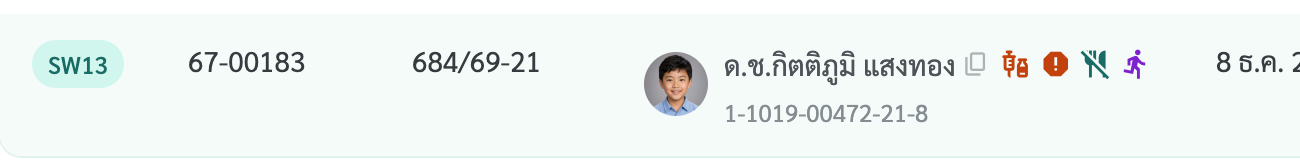
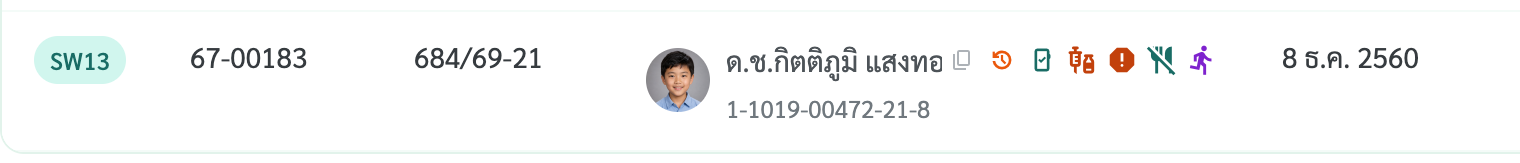
ไอคอนหลังชื่อ: ถ่ายภาพหน้าจอ 3 ภาพใหม่จากระบบ (คิวทันตกรรม · คิวเอกซเรย์ · แถว SW13 สังคมสงเคราะห์) เป็นไอคอนแบบเส้น 12px · แก้คำอธิบายภาพและบรรทัดประวัติ (ผู้ใช้ 22 พ.ย. 69 3ก)

diff --git a/worklist-name-icons.html b/worklist-name-icons.html
@@ -472,9 +472,9 @@
 </tr></tbody>
     </table>
     <span class="figlabel">ภาพจากระบบจริง — คิวทันตกรรม /clinic/dental (🔒 ข้อมูลลับ · หญิงตั้งครรภ์)</span>
-    <img class="shot" src="name-icons-shots/dental-rows.png" alt="คิวทันตกรรม แถว D-005 และ D-008 มีไอคอนแม่กุญแจสีม่วง แถว D-002 มีไอคอนหญิงตั้งครรภ์สีชมพู" loading="lazy" />
+    <img class="shot" src="name-icons-shots/dental-rows.png?v=20251122" alt="คิวทันตกรรม แถว D-005 และ D-008 มีไอคอนแม่กุญแจสีม่วงแบบเส้น แถว DR-001 มีไอคอนหญิงตั้งครรภ์สีชมพู" loading="lazy" />
     <span class="figlabel">ภาพจากระบบจริง — คิวเอกซเรย์ /xray/queue (แพ้สารทึบรังสี · ส่งตรวจภายนอก + คำอธิบายสัญลักษณ์ใต้ตาราง)</span>
-    <img class="shot" src="name-icons-shots/xray-queue.png" alt="คิวเอกซเรย์ แถวภูริ ใจกล้า มีธงแดงแพ้สารทึบรังสีและไอคอนส่งตรวจภายนอกหลังชื่อ และแถบคำอธิบายสัญลักษณ์ 6 ตัวใต้ตาราง" loading="lazy" />
+    <img class="shot" src="name-icons-shots/xray-queue.png?v=20251122" alt="คิวเอกซเรย์ แถวภูริ ใจกล้า มีธงแดงแพ้สารทึบรังสีและไอคอนส่งตรวจภายนอกหลังชื่อ และแถบคำอธิบายสัญลักษณ์ 6 ตัวใต้ตาราง" loading="lazy" />
   </section>
 
   <section class="card">
@@ -488,7 +488,7 @@
     <span class="figlabel">ตัวอย่างแถว (ชี้หรือแตะไอคอนเพื่อดู tooltip)</span>
     <div class="example"><span class="av"><span class="ms" style="font-size:28px;color:var(--icon-brandPrimary-default, #007549);font-variation-settings:'FILL' 1">child_care</span></span><div><div class="namerow"><span class="nm">ด.ช.กิตติภูมิ แสงทอง</span><span class="tip" tabindex="0"><span class="ic"><span class="ms" style="color:var(--icon-neutral-tertiary, #ADB2B7);font-size:12px;font-variation-settings:'FILL' 0,'wght' 600,'GRAD' 0,'opsz' 24">content_copy</span></span><span class="tt" role="tooltip"><span class="tt-t">คัดลอกชื่อ</span><span class="tt-s">กดแล้วเป็น ✓ &quot;คัดลอกแล้ว&quot; 1.5 วินาที</span></span></span><span class="tip" tabindex="0"><span class="ic"><span class="ms" style="color:var(--text-colorfulbadge-orange);font-size:16px;font-variation-settings:'FILL' 1,'wght' 500,'GRAD' 0,'opsz' 24">vaccines</span></span><span class="tt" role="tooltip"><span class="tt-t">ไม่ได้รับวัคซีนตามช่วงวัย</span><span class="tt-s">เด็กเข้าข่ายเด็กเสี่ยง · ควรคัดกรองและเฝ้าระวัง</span><span class="tt-group"><span class="tt-gh">การส่งต่อ</span><span class="tt-rows"><span class="tt-l">ส่งมาจาก</span><span class="tt-v">งานอนามัยโรงเรียน</span><span class="tt-l">ผู้ส่ง</span><span class="tt-v">พว.สุนันทา ใส่ใจ</span></span></span></span></span><span class="tip" tabindex="0"><span class="ic"><span class="ms" style="color:var(--text-colorfulbadge-orange);font-size:16px;font-variation-settings:'FILL' 1,'wght' 500,'GRAD' 0,'opsz' 24">report</span></span><span class="tt" role="tooltip"><span class="tt-t">สงสัยว่าถูกกระทำความรุนแรงทั้งร่างกายและจิตใจ</span><span class="tt-s">เด็กเข้าข่ายเด็กเสี่ยง · ควรคัดกรองและเฝ้าระวัง</span><span class="tt-group"><span class="tt-gh">การส่งต่อ</span><span class="tt-rows"><span class="tt-l">ส่งมาจาก</span><span class="tt-v">งานอนามัยโรงเรียน</span><span class="tt-l">ผู้ส่ง</span><span class="tt-v">พว.สุนันทา ใส่ใจ</span></span></span></span></span><span class="tip" tabindex="0"><span class="ic"><span class="ms" style="color:var(--text-colorfulbadge-teal);font-size:16px;font-variation-settings:'FILL' 1,'wght' 500,'GRAD' 0,'opsz' 24">no_meals</span></span><span class="tt" role="tooltip"><span class="tt-t">ขาดสารอาหาร</span><span class="tt-s">เหตุผลการส่งต่อ · ร่างกาย</span><span class="tt-group"><span class="tt-gh">การส่งต่อ</span><span class="tt-rows"><span class="tt-l">ส่งมาจาก</span><span class="tt-v">งานอนามัยโรงเรียน</span><span class="tt-l">ผู้ส่ง</span><span class="tt-v">พว.สุนันทา ใส่ใจ</span></span></span></span></span><span class="tip" tabindex="0"><span class="ic"><span class="ms" style="color:var(--text-colorfulbadge-purple);font-size:16px;font-variation-settings:'FILL' 1,'wght' 500,'GRAD' 0,'opsz' 24">directions_run</span></span><span class="tt" role="tooltip"><span class="tt-t">ซนมาก / อยู่ไม่สุข</span><span class="tt-s">เหตุผลการส่งต่อ · จิตใจ / อารมณ์</span><span class="tt-group"><span class="tt-gh">การส่งต่อ</span><span class="tt-rows"><span class="tt-l">ส่งมาจาก</span><span class="tt-v">งานอนามัยโรงเรียน</span><span class="tt-l">ผู้ส่ง</span><span class="tt-v">พว.สุนันทา ใส่ใจ</span></span></span></span></span></div><div class="hn">SW13 · HN 67-00183 · ข้อมูลตัวอย่าง (ชี้หรือแตะไอคอน)</div></div></div>
     <span class="figlabel">ภาพจากระบบจริง — /clinic/social-work · SW13</span>
-    <img class="shot" src="name-icons-shots/social-work-row.png" alt="แถว SW13 ด.ช.กิตติภูมิ แสงทอง พร้อมไอคอนเหตุผลการส่งต่อ 4 ตัวหลังชื่อ" loading="lazy" />
+    <img class="shot" src="name-icons-shots/social-work-row.png?v=20251122" alt="แถว SW13 ด.ช.กิตติภูมิ แสงทอง พร้อมไอคอนเคย Observe · Mobile App และไอคอนเหตุผลการส่งต่อ 4 ตัวหลังชื่อ" loading="lazy" />
     <span class="figlabel">ไอคอนทั้งหมด 33 แบบ</span>
     <div class="swwrap"><section class="swg"><h3>เด็กเข้าข่ายเด็กเสี่ยง <span class="cnt">3</span></h3><ul><li><span class="ic"><span class="ms" style="color:var(--text-colorfulbadge-orange);font-size:18px;font-variation-settings:'FILL' 1,'wght' 500,'GRAD' 0,'opsz' 24">credit_card_off</span></span><span><span class="lbl">เวชระเบียนไม่มีสิทธิการรักษา</span><code>credit_card_off</code></span></li><li><span class="ic"><span class="ms" style="color:var(--text-colorfulbadge-orange);font-size:18px;font-variation-settings:'FILL' 1,'wght' 500,'GRAD' 0,'opsz' 24">vaccines</span></span><span><span class="lbl">ไม่ได้รับวัคซีนตามช่วงวัย</span><code>vaccines</code></span></li><li><span class="ic"><span class="ms" style="color:var(--text-colorfulbadge-orange);font-size:18px;font-variation-settings:'FILL' 1,'wght' 500,'GRAD' 0,'opsz' 24">report</span></span><span><span class="lbl">สงสัยว่าถูกกระทำความรุนแรงทั้งร่างกายและจิตใจ</span><code>report</code></span></li></ul></section><section class="swg"><h3>ร่างกาย <span class="cnt">7</span></h3><ul><li><span class="ic"><span class="ms" style="color:var(--text-colorfulbadge-teal);font-size:18px;font-variation-settings:'FILL' 1,'wght' 500,'GRAD' 0,'opsz' 24">trending_down</span></span><span><span class="lbl">พัฒนาการช้า</span><code>trending_down</code></span></li><li><span class="ic"><span class="ms" style="color:var(--text-colorfulbadge-teal);font-size:18px;font-variation-settings:'FILL' 1,'wght' 500,'GRAD' 0,'opsz' 24">psychology_alt</span></span><span><span class="lbl">บกพร่องทางสติปัญญา</span><code>psychology_alt</code></span></li><li><span class="ic"><span class="ms" style="color:var(--text-colorfulbadge-teal);font-size:18px;font-variation-settings:'FILL' 1,'wght' 500,'GRAD' 0,'opsz' 24">accessible</span></span><span><span class="lbl">พิการ</span><code>accessible</code></span></li><li><span class="ic"><span class="ms" style="color:var(--text-colorfulbadge-teal);font-size:18px;font-variation-settings:'FILL' 1,'wght' 500,'GRAD' 0,'opsz' 24">medical_information</span></span><span><span class="lbl">มีโรคประจำตัว</span><code>medical_information</code></span></li><li><span class="ic"><span class="ms" style="color:var(--text-colorfulbadge-teal);font-size:18px;font-variation-settings:'FILL' 1,'wght' 500,'GRAD' 0,'opsz' 24">no_meals</span></span><span><span class="lbl">ขาดสารอาหาร</span><code>no_meals</code></span></li><li><span class="ic"><span class="ms" style="color:var(--text-colorfulbadge-teal);font-size:18px;font-variation-settings:'FILL' 1,'wght' 500,'GRAD' 0,'opsz' 24">restaurant</span></span><span><span class="lbl">เสี่ยงขาดสารอาหาร</span><code>restaurant</code></span></li><li><span class="ic"><span class="ms" style="color:var(--text-colorfulbadge-teal);font-size:18px;font-variation-settings:'FILL' 1,'wght' 500,'GRAD' 0,'opsz' 24">monitor_weight</span></span><span><span class="lbl">มีน้ำหนักเกินมาตรฐาน</span><code>monitor_weight</code></span></li></ul></section><section class="swg"><h3>จิตใจ / อารมณ์ <span class="cnt">4</span></h3><ul><li><span class="ic"><span class="ms" style="color:var(--text-colorfulbadge-purple);font-size:18px;font-variation-settings:'FILL' 1,'wght' 500,'GRAD' 0,'opsz' 24">crib</span></span><span><span class="lbl">เลี้ยงยาก</span><code>crib</code></span></li><li><span class="ic"><span class="ms" style="color:var(--text-colorfulbadge-purple);font-size:18px;font-variation-settings:'FILL' 1,'wght' 500,'GRAD' 0,'opsz' 24">mood_bad</span></span><span><span class="lbl">เจ้าอารมณ์</span><code>mood_bad</code></span></li><li><span class="ic"><span class="ms" style="color:var(--text-colorfulbadge-purple);font-size:18px;font-variation-settings:'FILL' 1,'wght' 500,'GRAD' 0,'opsz' 24">directions_run</span></span><span><span class="lbl">ซนมาก / อยู่ไม่สุข</span><code>directions_run</code></span></li><li><span class="ic"><span class="ms" style="color:var(--text-colorfulbadge-purple);font-size:18px;font-variation-settings:'FILL' 1,'wght' 500,'GRAD' 0,'opsz' 24">sentiment_dissatisfied</span></span><span><span class="lbl">ซึมเศร้าผิดปกติ</span><code>sentiment_dissatisfied</code></span></li></ul></section><section class="swg"><h3>เศรษฐกิจ <span class="cnt">2</span></h3><ul><li><span class="ic"><span class="ms" style="color:var(--text-colorfulbadge-yellow);font-size:18px;font-variation-settings:'FILL' 1,'wght' 500,'GRAD' 0,'opsz' 24">work</span></span><span><span class="lbl">ต้องทำงานหารายได้ก่อนวัยอันควร</span><code>work</code></span></li><li><span class="ic"><span class="ms" style="color:var(--text-colorfulbadge-yellow);font-size:18px;font-variation-settings:'FILL' 1,'wght' 500,'GRAD' 0,'opsz' 24">school</span></span><span><span class="lbl">ขาดแคลนทุนทรัพย์ในการศึกษา</span><code>school</code></span></li></ul></section><section class="swg"><h3>พฤติกรรม <span class="cnt">11</span></h3><ul><li><span class="ic"><span class="ms" style="color:var(--text-colorfulbadge-magenta);font-size:18px;font-variation-settings:'FILL' 1,'wght' 500,'GRAD' 0,'opsz' 24">liquor</span></span><span><span class="lbl">ติดสารเสพติด / ติดเหล้า</span><code>liquor</code></span></li><li><span class="ic"><span class="ms" style="color:var(--text-colorfulbadge-magenta);font-size:18px;font-variation-settings:'FILL' 1,'wght' 500,'GRAD' 0,'opsz' 24">casino</span></span><span><span class="lbl">ติดเกม / การพนัน</span><code>casino</code></span></li><li><span class="ic"><span class="ms" style="color:var(--text-colorfulbadge-magenta);font-size:18px;font-variation-settings:'FILL' 1,'wght' 500,'GRAD' 0,'opsz' 24">backpack</span></span><span><span class="lbl">หนีโรงเรียน</span><code>backpack</code></span></li><li><span class="ic"><span class="ms" style="color:var(--text-colorfulbadge-magenta);font-size:18px;font-variation-settings:'FILL' 1,'wght' 500,'GRAD' 0,'opsz' 24">groups</span></span><span><span class="lbl">ชอบมั่วสุม</span><code>groups</code></span></li><li><span class="ic"><span class="ms" style="color:var(--text-colorfulbadge-magenta);font-size:18px;font-variation-settings:'FILL' 1,'wght' 500,'GRAD' 0,'opsz' 24">directions_walk</span></span><span><span class="lbl">หนีออกจากบ้าน / เร่ร่อน</span><code>directions_walk</code></span></li><li><span class="ic"><span class="ms" style="color:var(--text-colorfulbadge-magenta);font-size:18px;font-variation-settings:'FILL' 1,'wght' 500,'GRAD' 0,'opsz' 24">no_adult_content</span></span><span><span class="lbl">ขายบริการทางเพศ</span><code>no_adult_content</code></span></li><li><span class="ic"><span class="ms" style="color:var(--text-colorfulbadge-magenta);font-size:18px;font-variation-settings:'FILL' 1,'wght' 500,'GRAD' 0,'opsz' 24">shopping_cart</span></span><span><span class="lbl">ใช้จ่ายฟุ่มเฟือยเกินวัย</span><code>shopping_cart</code></span></li><li><span class="ic"><span class="ms" style="color:var(--text-colorfulbadge-magenta);font-size:18px;font-variation-settings:'FILL' 1,'wght' 500,'GRAD' 0,'opsz' 24">explicit</span></span><span><span class="lbl">มัวเมาสื่อลามก</span><code>explicit</code></span></li><li><span class="ic"><span class="ms" style="color:var(--text-colorfulbadge-magenta);font-size:18px;font-variation-settings:'FILL' 1,'wght' 500,'GRAD' 0,'opsz' 24">campaign</span></span><span><span class="lbl">เรียกร้องความสนใจ</span><code>campaign</code></span></li><li><span class="ic"><span class="ms" style="color:var(--text-colorfulbadge-magenta);font-size:18px;font-variation-settings:'FILL' 1,'wght' 500,'GRAD' 0,'opsz' 24">pregnant_woman</span></span><span><span class="lbl">ตั้งครรภ์ก่อนวัยอันควร</span><code>pregnant_woman</code></span></li><li><span class="ic"><span class="ms" style="color:var(--text-colorfulbadge-magenta);font-size:18px;font-variation-settings:'FILL' 1,'wght' 500,'GRAD' 0,'opsz' 24">healing</span></span><span><span class="lbl">มีบาดแผลบ่อย ๆ</span><code>healing</code></span></li></ul></section><section class="swg"><h3>ถูกกระทำ / ทอดทิ้ง <span class="cnt">4</span></h3><ul><li><span class="ic"><span class="ms" style="color:var(--text-colorfulbadge-red);font-size:18px;font-variation-settings:'FILL' 1,'wght' 500,'GRAD' 0,'opsz' 24">person_off</span></span><span><span class="lbl">ถูกทอดทิ้ง ขาดผู้ดูแล</span><code>person_off</code></span></li><li><span class="ic"><span class="ms" style="color:var(--text-colorfulbadge-red);font-size:18px;font-variation-settings:'FILL' 1,'wght' 500,'GRAD' 0,'opsz' 24">personal_injury</span></span><span><span class="lbl">มีบาดแผลบ่อย ๆ</span><code>personal_injury</code></span></li><li><span class="ic"><span class="ms" style="color:var(--text-colorfulbadge-red);font-size:18px;font-variation-settings:'FILL' 1,'wght' 500,'GRAD' 0,'opsz' 24">construction</span></span><span><span class="lbl">ถูกใช้แรงงาน</span><code>construction</code></span></li><li><span class="ic"><span class="ms" style="color:var(--text-colorfulbadge-red);font-size:18px;font-variation-settings:'FILL' 1,'wght' 500,'GRAD' 0,'opsz' 24">front_hand</span></span><span><span class="lbl">พฤติกรรมทางเพศไม่เหมาะสม</span><code>front_hand</code></span></li></ul></section><section class="swg"><h3>อื่น ๆ <span class="cnt">1</span></h3><ul><li><span class="ic"><span class="ms" style="color:var(--text-colorfulbadge-grey);font-size:18px;font-variation-settings:'FILL' 1,'wght' 500,'GRAD' 0,'opsz' 24">more_horiz</span></span><span><span class="lbl">อื่น ๆ (ระบุเอง)</span><code>more_horiz</code></span></li></ul></section></div>
   </section>
@@ -506,7 +506,7 @@
     <table>
       <thead><tr><th>วันที่</th><th>ประเภท</th><th>เปลี่ยนอะไร</th><th>เหตุผล / ที่มา</th><th>commit</th></tr></thead>
       <tbody>
-<tr><td data-l="วันที่">22 พ.ย. 69</td><td data-l="ประเภท"><span class="badge" style="color:var(--text-colorfulbadge-grey, #4D5358);background:var(--surface-colorfulbadge-grey, #F5F7F9)">เอกสาร</span></td><td data-l="เปลี่ยนอะไร">ปรับเอกสารให้ตรงโค้ดปัจจุบัน: เพิ่มไอคอนชุดกลาง Fast Track · เคย Observe ภายใน 7 วัน · เพิ่มไอคอนเฉพาะหน้า ตรวจผ่านแอป · มีหัตถการค้าง · สัญลักษณ์บุคคลพิเศษ · แพทย์ให้ติดตามการดูแล · บันทึกถึงพยาบาล · Emergency (ห้องหัตถการ) · &quot;มีอาการทางจิต&quot; เปลี่ยนเป็น Special care สีฟ้า · เร่งด่วนเป็นสีเหลือง + ข้อความ tooltip ฉุกเฉิน/เร่งด่วนตามเอกสาร Triage · ฉุกเฉินรวม ESI 1 ข้ามคัดกรองจากเวชระเบียน · ไอคอนทุกตัวเป็นแบบเส้น 12px · &quot;มาฟังผล&quot; เป็นข้อความสีฟ้าใต้ชื่อ · การ์ดเขียว: ฉุกเฉิน/เร่งด่วน และค้างชำระย้ายเป็นไอคอนในกล่องขาวหลังชื่อ + สีป้ายแพ้ยา/โรคประจำตัวคงที่ · ลำดับคิวเพิ่ม Fast Track</td><td data-l="เหตุผล / ที่มา">เจ้าของงานให้ทุกหน้าในเมนู &quot;กติกาและเงื่อนไข&quot; ตรงกับระบบ ณ 22 พ.ย. 69 · อ้าง decision log: 25 ต.ค. (เส้น 12 · ตรวจผ่านแอป) · 26 ต.ค. (กล่องขาว · ค้างชำระ · ไซเรนหลังชื่อ · มาฟังผลสีฟ้า · เกณฑ์ Triage) · 28 ต.ค. (Special care) · 29 ต.ค. (เคย Observe) · 3 พ.ย. (สัญลักษณ์บุคคลพิเศษ คทง.7 ข้อ 80 · 16ก) · 4 พ.ย. (ติดตามการดูแล) · 9 พ.ย. (Fast Track 4ข · สภาพที่มาบนการ์ด 1ข) · 15 พ.ย. (หัตถการค้าง FIN-46) · 17 พ.ย. (ESI 1 ข้ามคัดกรอง) · ไฟล์ Excel อัปเดตรอบเดียวกัน · ภาพหน้าจอ 3 ภาพ (ทันตกรรม · เอกซเรย์ · สังคมสงเคราะห์) ยังเป็นชุด 24 ต.ค. 69</td><td data-l="commit"><code>—</code></td></tr>
+<tr><td data-l="วันที่">22 พ.ย. 69</td><td data-l="ประเภท"><span class="badge" style="color:var(--text-colorfulbadge-grey, #4D5358);background:var(--surface-colorfulbadge-grey, #F5F7F9)">เอกสาร</span></td><td data-l="เปลี่ยนอะไร">ปรับเอกสารให้ตรงโค้ดปัจจุบัน: เพิ่มไอคอนชุดกลาง Fast Track · เคย Observe ภายใน 7 วัน · เพิ่มไอคอนเฉพาะหน้า ตรวจผ่านแอป · มีหัตถการค้าง · สัญลักษณ์บุคคลพิเศษ · แพทย์ให้ติดตามการดูแล · บันทึกถึงพยาบาล · Emergency (ห้องหัตถการ) · &quot;มีอาการทางจิต&quot; เปลี่ยนเป็น Special care สีฟ้า · เร่งด่วนเป็นสีเหลือง + ข้อความ tooltip ฉุกเฉิน/เร่งด่วนตามเอกสาร Triage · ฉุกเฉินรวม ESI 1 ข้ามคัดกรองจากเวชระเบียน · ไอคอนทุกตัวเป็นแบบเส้น 12px · &quot;มาฟังผล&quot; เป็นข้อความสีฟ้าใต้ชื่อ · การ์ดเขียว: ฉุกเฉิน/เร่งด่วน และค้างชำระย้ายเป็นไอคอนในกล่องขาวหลังชื่อ + สีป้ายแพ้ยา/โรคประจำตัวคงที่ · ลำดับคิวเพิ่ม Fast Track</td><td data-l="เหตุผล / ที่มา">เจ้าของงานให้ทุกหน้าในเมนู &quot;กติกาและเงื่อนไข&quot; ตรงกับระบบ ณ 22 พ.ย. 69 · อ้าง decision log: 25 ต.ค. (เส้น 12 · ตรวจผ่านแอป) · 26 ต.ค. (กล่องขาว · ค้างชำระ · ไซเรนหลังชื่อ · มาฟังผลสีฟ้า · เกณฑ์ Triage) · 28 ต.ค. (Special care) · 29 ต.ค. (เคย Observe) · 3 พ.ย. (สัญลักษณ์บุคคลพิเศษ คทง.7 ข้อ 80 · 16ก) · 4 พ.ย. (ติดตามการดูแล) · 9 พ.ย. (Fast Track 4ข · สภาพที่มาบนการ์ด 1ข) · 15 พ.ย. (หัตถการค้าง FIN-46) · 17 พ.ย. (ESI 1 ข้ามคัดกรอง) · ไฟล์ Excel อัปเดตรอบเดียวกัน · ภาพหน้าจอ 3 ภาพ (ทันตกรรม · เอกซเรย์ · สังคมสงเคราะห์) ถ่ายใหม่จากระบบ 22 พ.ย. 69 เป็นไอคอนแบบเส้น</td><td data-l="commit"><code>—</code></td></tr>
 <tr><td data-l="วันที่">25 ต.ค. 69</td><td data-l="ประเภท"><span class="badge" style="color:var(--text-colorfulbadge-indigo, #4F46E5);background:var(--surface-colorfulbadge-indigo, #EEF2FF)">แก้</span></td><td data-l="เปลี่ยนอะไร">ไอคอน Mobile Application เปลี่ยนจากแบบทึบเป็นแบบเส้น (outline · weight 600) 14px</td><td data-l="เหตุผล / ที่มา">แบบทึบเห็นเครื่องหมายถูก/ขีดฆ่าไม่ชัด · ผู้ใช้ "ปรับรูป mobile ให้ดูง่ายกว่านี้ และปรับในเว็บ phcis ด้วย"</td><td data-l="commit"><code>—</code></td></tr>
 <tr><td data-l="วันที่">24 ต.ค. 69</td><td data-l="ประเภท"><span class="badge" style="color:var(--text-colorfulbadge-indigo, #4F46E5);background:var(--surface-colorfulbadge-indigo, #EEF2FF)">แก้</span></td><td data-l="เปลี่ยนอะไร">ไอคอนสัญญาณชีพวิกฤตขึ้นทุกรายที่ค่าเกินเกณฑ์ (เดิมขึ้นเฉพาะรายที่มีไอคอนฉุกเฉิน/เร่งด่วน)</td><td data-l="เหตุผล / ที่มา">ค่าวิกฤตแต่ ESI 4–5 เดิมไม่เห็นไอคอน · ผู้ใช้เลือก 2ก 24 ต.ค. 69</td><td data-l="commit"><code>—</code></td></tr>
 <tr><td data-l="วันที่">24 ต.ค. 69</td><td data-l="ประเภท"><span class="badge" style="color:var(--text-colorfulbadge-grey, #4D5358);background:var(--surface-colorfulbadge-grey, #F5F7F9)">เอกสาร</span></td><td data-l="เปลี่ยนอะไร">ลบไอคอนโรคที่อ่อนไหว (B24) ออกจากเอกสาร · เพิ่มไอคอนใหม่ 4 แบบ · เขียนแถวอาการทางจิตใหม่ · ขนาดไอคอน 14px · ลบ B24 ออกจากไฟล์ Excel</td><td data-l="เหตุผล / ที่มา">ผู้ใช้สั่ง 24 ต.ค. 69: &quot;ลบ icon b24 ออก · อัปเดท icon หลังชื่อทั้งหมด จากที่ได้มีการบอกให้แก้ไปเมื่อวาน&quot;</td><td data-l="commit"><code>—</code></td></tr>
